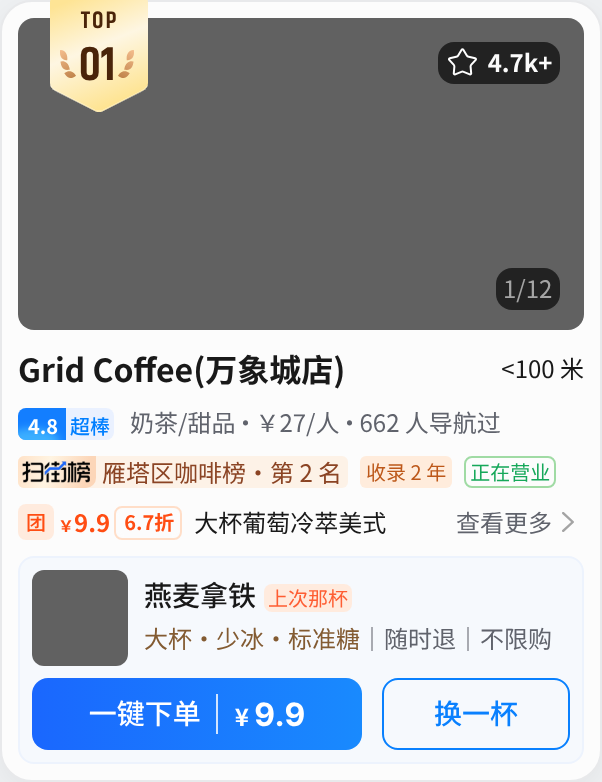
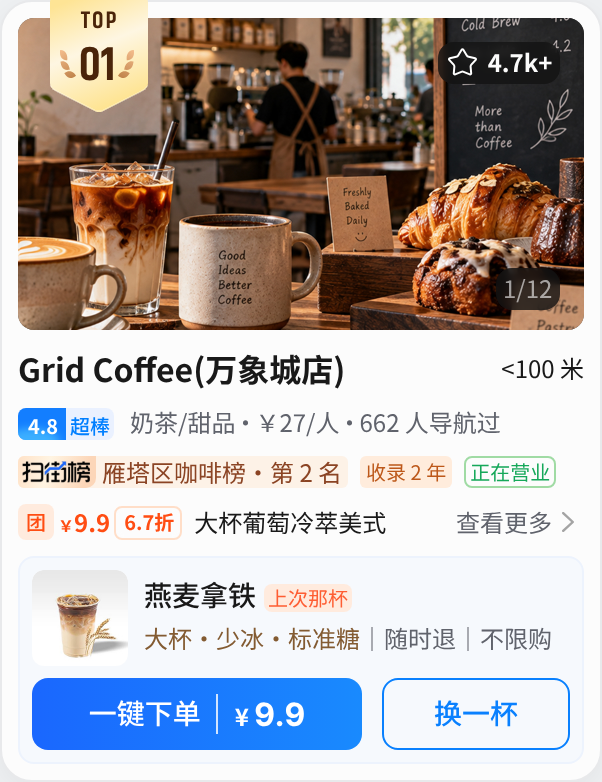
chore(preview): 地点卡 9 个实例全部接入图片（8 张主图 + 3 张一键下单商品图）
按像素比对 Figma 853:6420 截图对应到各卡

Claude-Session: https://claude.ai/code/session_01HmosH7j6FmjJ8BokUZHb64

diff --git a/preview/place-card.html b/preview/place-card.html
@@ -30,48 +30,48 @@
   <script src="../components/primitives/primitives.js"></script>
   <script src="../components/place-card/place-card.js"></script>
   <script>
-    // 文案逐字取自 Figma 各实例；店铺图待导出，缺失时显示占位底色
+    // 文案逐字取自 Figma 各实例；图片按像素比对 Figma 对应，缺失时显示占位底色
     const CARDS = [
-      { g: 'commute', node: '853:5773', scene: 'commute', rank: 1, name: 'Grid Coffee(万象城店)', distance: '<100 米', score: '4.8', scoreLabel: '超棒',
+      { g: 'commute', node: '853:5773', scene: 'commute', rank: 1, name: 'Grid Coffee(万象城店)', image: '../assets/restaurant/samples/grid-coffee.jpg', distance: '<100 米', score: '4.8', scoreLabel: '超棒',
         details: ['奶茶/甜品', '￥27/人', '662 人导航过'], ranking: '雁塔区咖啡榜·第 2 名', tenure: '收录 2 年', status: '正在营业',
         deals: [{ type: '团', price: '9.9', discount: '6.7折', title: '大杯葡萄冷萃美式' }], dealMore: '查看更多', saves: '4.7k+', page: '1/12',
-        order: { title: '燕麦拿铁', tag: '上次那杯', spec: '大杯·少冰·标准糖', note: '｜随时退｜不限购', price: '9.9' } },
-      { g: 'commute', node: '853:5774', scene: 'commute', rank: 2, name: '早安山丘（银泰B座 B1）', distance: '<100 米', score: '4.7', scoreLabel: '很棒',
+        order: { image: '../assets/restaurant/samples/order-oat-latte.jpg', title: '燕麦拿铁', tag: '上次那杯', spec: '大杯·少冰·标准糖', note: '｜随时退｜不限购', price: '9.9' } },
+      { g: 'commute', node: '853:5774', scene: 'commute', rank: 2, name: '早安山丘（银泰B座 B1）', image: '../assets/restaurant/samples/zaoan-shanqiu.jpg', distance: '<100 米', score: '4.7', scoreLabel: '很棒',
         details: ['奶茶/甜品', '￥27/人', '462 人导航过'], ranking: '雁塔区面包榜·第 8 名', tenure: '收录 2 年', status: '正在营业',
         deals: [{ type: '团', price: '21', discount: '7.6折', title: '可颂两件 + 现磨豆浆' }], dealMore: '查看更多', saves: '3.7k+', page: '1/12',
-        order: { title: '三明治 + 中杯拿铁', tag: '最多人购买', spec: '含推荐菜', note: '｜随时退｜不限购', price: '12.9' } },
-      { g: 'commute', node: '853:5775', scene: 'commute', rank: 3, name: '小面日记（万象天地店）', distance: '150 米', score: '4.6', scoreLabel: '很棒',
+        order: { image: '../assets/restaurant/samples/order-sandwich-latte.jpg', title: '三明治 + 中杯拿铁', tag: '最多人购买', spec: '含推荐菜', note: '｜随时退｜不限购', price: '12.9' } },
+      { g: 'commute', node: '853:5775', scene: 'commute', rank: 3, name: '小面日记（万象天地店）', image: '../assets/restaurant/samples/xiaomian-riji.jpg', distance: '150 米', score: '4.6', scoreLabel: '很棒',
         details: ['当地小吃', '￥27/人', '462 人导航过'], ranking: '雁塔区小吃榜·第 3 名', tenure: '收录 2 年', status: '正在营业',
         deals: [{ type: '团', price: '15', discount: '4.6折', title: '招牌小面 + 卤蛋' }], dealMore: '查看更多', saves: '1.6k+', page: '1/10',
-        order: { title: '小面 + 豆腐脑早餐组', tag: '最多收藏', spec: '含推荐菜', note: '｜随时退｜不限购', price: '18.9' } },
+        order: { image: '../assets/restaurant/samples/order-xiaomian-doufunao.jpg', title: '小面 + 豆腐脑早餐组', tag: '最多收藏', spec: '含推荐菜', note: '｜随时退｜不限购', price: '18.9' } },
 
       { g: 'restaurant', node: '853:5068', rank: 1, name: '胡大饭馆 24h (砺街总店)', distance: '<100 米', score: '4.8', scoreLabel: '超棒',
         details: ['川菜', '￥150/人', '3652 人导航过'], ranking: '碑林区回头客榜单·第 1 名', status: '营业中',
         review: '关晓彤推荐来的! 冲他家的蒜蓉酸辣螃蟹...', reviewCount: '252 人在说',
         deals: [{ type: '团', price: '98', discount: '5.6折', title: '夏宫双人招牌套餐 (需提前预约)' }, { type: '券', price: '88', discount: '8.8折', title: '100 元代金券' }],
         image: '../assets/restaurant/samples/huda-fanguan.jpg', saves: '10.7w+', page: '1/12' },
-      { g: 'restaurant', node: '853:5777', rank: 2, name: '巷子口砂锅居', distance: '180 米', score: '4.8', scoreLabel: '超棒',
+      { g: 'restaurant', node: '853:5777', rank: 2, name: '巷子口砂锅居', image: '../assets/restaurant/samples/xiangzikou-shaguo.jpg', distance: '180 米', score: '4.8', scoreLabel: '超棒',
         details: ['砂锅菜', '￥52/人', '1287 人导航过'], ranking: '专程前往家常菜榜·第 1 名', status: '营业中',
         review: '汤清如水却滋味十足，羊肉炖得软...', reviewCount: '210 人在说',
         deals: [{ type: '团', price: '151', discount: '4.6折', title: '双人招牌套餐（提前一天预约）' }, { type: '团', price: '68', discount: '7.8折', title: '工作日午市单人套餐' }],
         saves: '3.6w+', page: '1/18' },
-      { g: 'restaurant', node: '853:5776', rank: 3, name: '南门口卤味小馆', distance: '450 米', score: '4.7', scoreLabel: '超棒',
+      { g: 'restaurant', node: '853:5776', rank: 3, name: '南门口卤味小馆', image: '../assets/restaurant/samples/nanmenkou-luwei.jpg', distance: '450 米', score: '4.7', scoreLabel: '超棒',
         details: ['卤味熟食', '￥45/人', '986 人导航过'], ranking: '烟火小店榜·第 2 名', status: '营业中',
         review: '打包回家当宵夜刚好，卤大肠和鸭货必点，老板给的量很实在！', reviewCount: '198 人在说',
         deals: [{ type: '团', price: '88', discount: '4.8折', title: '招牌卤味拼盘' }, { type: '团', price: '45', discount: '6.6折', title: '四人份宵夜打包装' }],
         saves: '1.2w+', page: '1/10' },
 
-      { g: 'attraction', node: '853:5770', scene: 'attraction', rank: 1, name: '西安钟楼', distance: '<100 米', score: '4.8', scoreLabel: '超棒',
+      { g: 'attraction', node: '853:5770', scene: 'attraction', rank: 1, name: '西安钟楼', image: '../assets/restaurant/samples/xian-bell-tower.jpg', distance: '<100 米', score: '4.8', scoreLabel: '超棒',
         details: ['古建登楼', '￥40/人', '4.5w+ 人导航过'], ranking: '2026 上榜景区', infoTag: '西安的市中心', status: '正在开放',
         review: '中国现存最大且保存最完整的明代钟楼，全木构架靠榫卯咬合未用一颗铁钉，登楼俯瞰...', reviewCount: '198 人在说',
         deals: [{ type: '票', price: '40', discount: '省 2 元', title: '钟楼成人票（当日有效，刷身份证入园）' }, { type: '票', price: '50', discount: '8.0折', title: '钟鼓楼联票｜两天内分次使用' }],
         saves: '34.7w+', page: '1/12' },
-      { g: 'attraction', node: '853:5771', scene: 'attraction', rank: 2, name: '西安鼓楼', distance: '350 米', score: '4.8', scoreLabel: '超棒',
+      { g: 'attraction', node: '853:5771', scene: 'attraction', rank: 2, name: '西安鼓楼', image: '../assets/restaurant/samples/xian-drum-tower.jpg', distance: '350 米', score: '4.8', scoreLabel: '超棒',
         details: ['古建登楼', '￥35/人', '2.3w+ 人导航过'], ranking: '2026 上榜景区', infoTag: '晨钟暮鼓', status: '正在开放',
         review: '中国现存最大的明代鼓楼，屹立六百余年，历史地位无可代替。', reviewCount: '252 人在说',
         deals: [{ type: '票', price: '30', discount: '7.5折', title: '鼓楼成人票（当日有效，刷身份证入园）' }, { type: '票', price: '50', discount: '8.0折', title: '钟鼓楼联票｜两天内分次使用' }],
         saves: '26.5w+', page: '1/12' },
-      { g: 'attraction', node: '853:5772', scene: 'attraction', rank: 3, name: '西安碑林博物馆', distance: '859 米', score: '4.5', scoreLabel: '很好',
+      { g: 'attraction', node: '853:5772', scene: 'attraction', rank: 3, name: '西安碑林博物馆', image: '../assets/restaurant/samples/beilin-museum.jpg', distance: '859 米', score: '4.5', scoreLabel: '很好',
         details: ['千年碑文', '￥35/人', '2.3w+ 人导航过'], ranking: '2026 上榜景区', infoTag: '国家一级博物馆', status: '正在开放',
         review: '北院门街穿过鼓楼门洞就是，进街后靠右走人少一些', reviewCount: '252 人在说',
         deals: [{ type: '团', price: '78', discount: '省 2 元', title: '景区门票(成人票）' }, { type: '团', price: '21 起', discount: '6.7折', title: '拼团人工讲解服务(不限人群票)' }],

diff --git a/README.md b/README.md
@@ -173,4 +173,4 @@ assets/      从 Figma 导出的素材
 | `score-glow.svg` | `765:3889` Ellipse 11 | 26×10 |
 | `icon-fire.svg` | `853:5096` ic:round-whatshot | 16×16 |
 | `icon-star-white.svg` | `853:5072` Star 3 | 15×14 |
-| `samples/huda-fanguan.jpg` | `853:5070` 主图（仅预览，1x） | 284×156 |
+| `samples/*.jpg` | 主图 284×156 与一键下单商品图 48×48，仅预览用（按像素比对 Figma 对应到卡片；huda-fanguan 为 1x，其余 @3x） | — |
